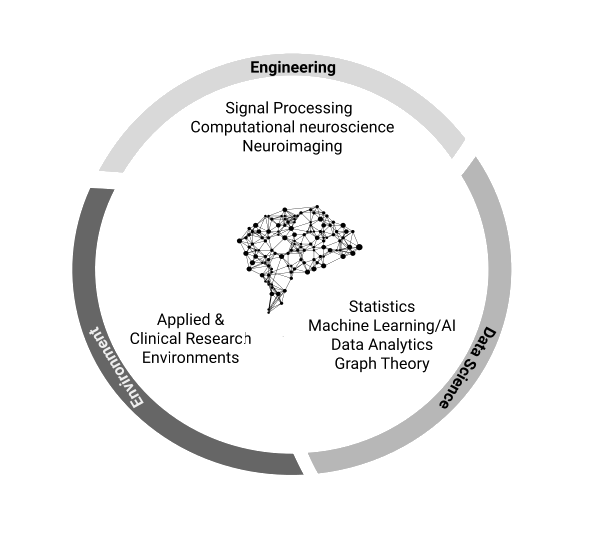
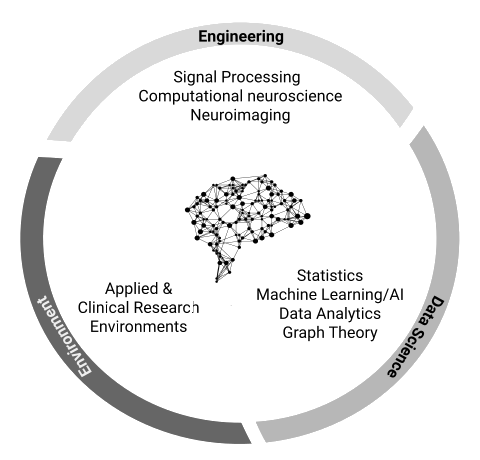
Resize image skills

Changed region(s): [[0.0312, 0.0304, 0.9688, 0.9739]]

diff --git a/index.htm b/index.htm
@@ -36,7 +36,7 @@
   
   <div class="main">
     <h3> Main Skills </h3>
-	<img style="width:70%" src="images/SkillsDiagram_grey_noBg.png" /> 
+	<img style="width:60%" src="images/SkillsDiagram_grey_noBg.png" /> 
   </div>
 </div>
  
